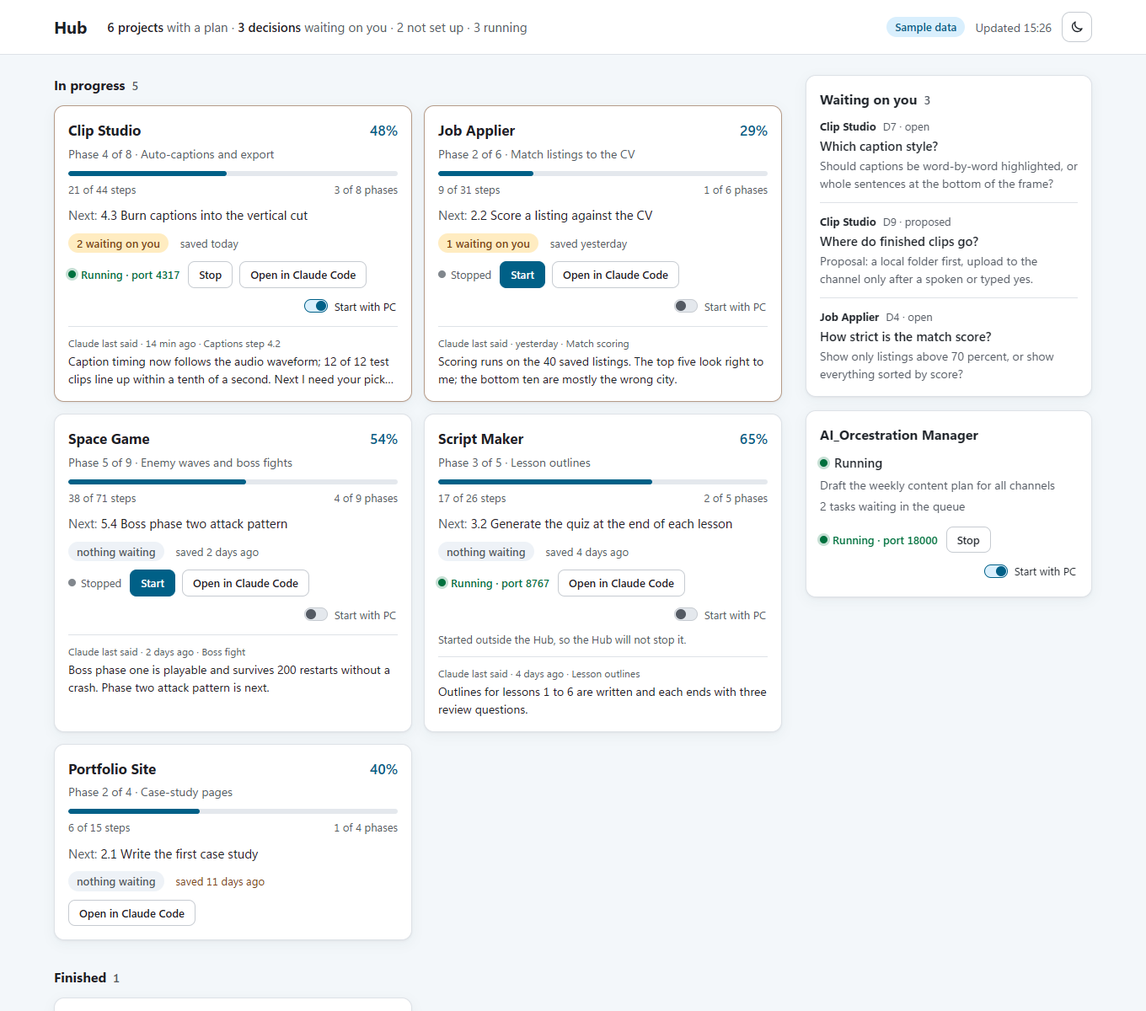
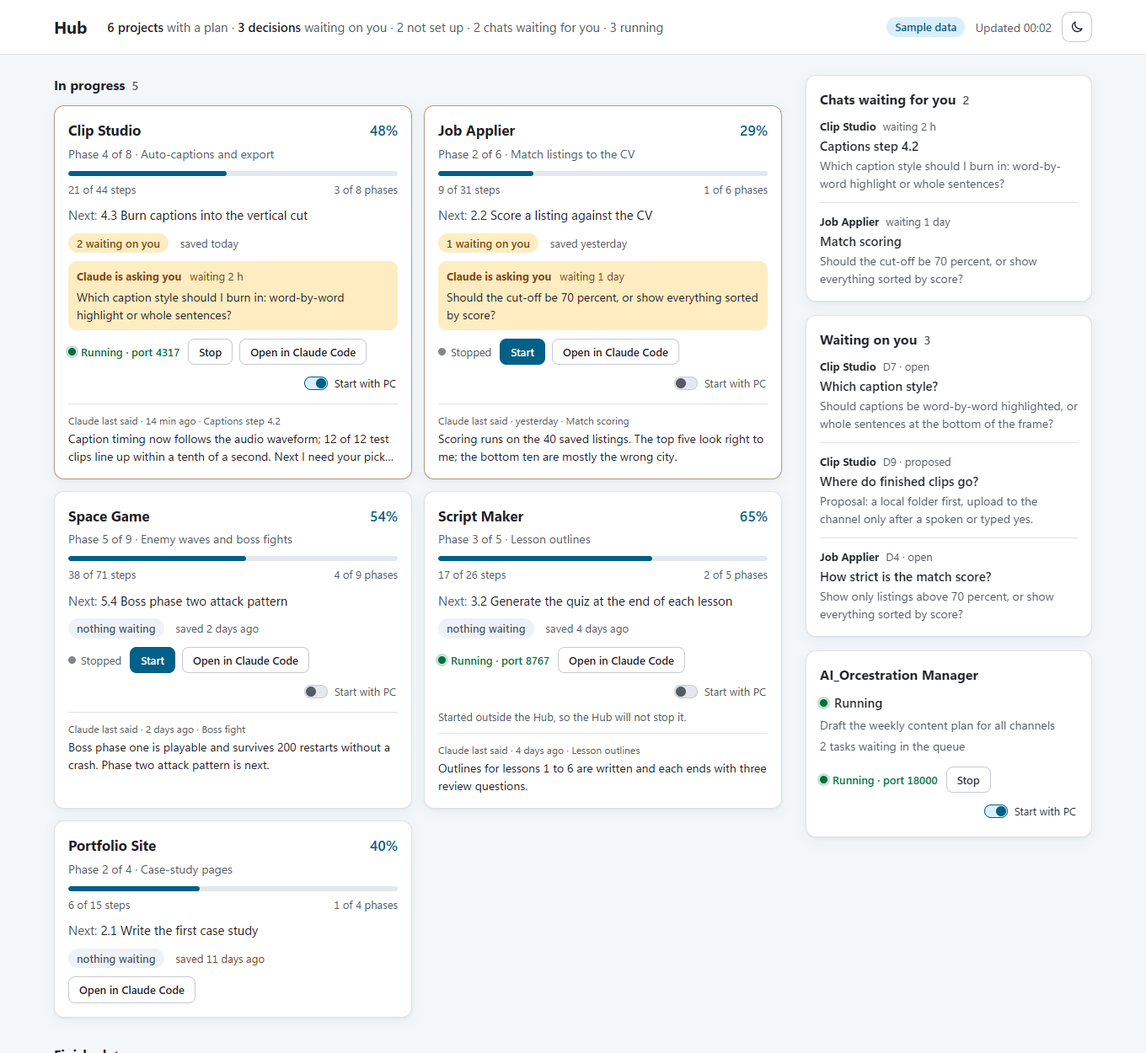
Step 6.3: chats waiting for you detected from the saved chats, shown on cards and in a list (Phase 6 done)

diff --git a/tools/dashboard/public/app.js b/tools/dashboard/public/app.js
@@ -35,6 +35,9 @@ let runtime = [];                   // one entry per startable project
 let lastData = null;                // last render input, so the question row survives the 30 s refresh
 let asking = null;                  // { kind, name, id, label, text } while a "...?" row is open
 let note = "";
+let needs = [];                     // chats that are waiting for Ivan (from /api/needs-you)
+const needsFor = (name) => needs.filter((n) => n.project === name);
+const waited = (iso) => { const m = Math.round((Date.now() - new Date(iso).getTime()) / 60000); return m < 60 ? `${Math.max(m, 1)} min` : m < 1440 ? `${Math.round(m / 60)} h` : (d => d === 1 ? "1 day" : `${d} days`)(Math.round(m / 1440)); };
 const rtFor = (name) => runtime.find((r) => r.name === name);
 
 function setNote(text, bad = false) { note = text; const n = $("note"); n.textContent = text; n.hidden = !text; n.className = "note" + (bad ? " bad" : ""); }
@@ -81,6 +84,10 @@ async function send(body, retry = true) {
   const r = await fetch("/api/action", { method: "POST", headers: { "Content-Type": "application/json", "X-Hub-Token": session.token }, body: JSON.stringify({ ...body, confirm: true }) });
   if (r.status === 403 && retry) { session = null; return send(body, false); } // the server was restarted: fetch the new token once
   return r.json().catch(() => ({ ok: false, error: "The Hub answered something unexpected." }));
+}
+
+async function loadNeeds() {
+  try { needs = (await (await fetch("/api/needs-you", { cache: "no-store" })).json()).items || []; } catch { /* keep the last list */ }
 }
 
 async function loadRuntime() {
@@ -141,6 +148,9 @@ function card(p, answer) {
     h("div", { class: "meta" },
       needs ? h("span", { class: "pill" }, `${p.decisionsWaiting} waiting on you`) : h("span", { class: "pill quiet" }, "nothing waiting"),
       h("span", { class: stale ? "stale" : "" }, saved(p.handoffDaysOld))),
+    needsFor(p.name).slice(0, 1).map((n) => h("div", { class: "asking" },
+      h("div", { class: "asking-top" }, h("span", { class: "pill" }, n.state === "permission" ? "Maybe waiting for permission" : "Claude is asking you"), h("span", {}, `waiting ${waited(n.since)}`)),
+      h("p", { class: "asking-q" }, n.snippet))),
     controls(p.name),
     answer ? h("details", { class: "said" },
       h("summary", {}, h("span", { class: "when" }, `Claude last said · ${ago(answer.at)}${answer.chat ? " · " + answer.chat : ""}`), h("span", { class: "short" }, answer.short)),
@@ -161,6 +171,7 @@ function render(data) {
     h("b", {}, `${ready.length} projects`), ` with a plan · `,
     h("b", {}, waiting === 0 ? "nothing" : `${waiting} decision${waiting > 1 ? "s" : ""}`), " waiting on you",
     unset.length ? ` · ${unset.length} not set up` : "",
+    needs.length ? ` · ${needs.length} chat${needs.length > 1 ? "s" : ""} waiting for you` : "",
     runtime.some((r) => r.status === "running") ? ` · ${runtime.filter((r) => r.status === "running").length} running` : "");
 
   $("active-count").textContent = active.length;
@@ -171,6 +182,13 @@ function render(data) {
   $("unset-section").hidden = unset.length === 0;
   $("unset-count").textContent = unset.length;
   $("unset").replaceChildren(...unset.map((p) => h("li", {}, p.name)));
+
+  $("needs-panel").hidden = needs.length === 0;
+  $("needs-count").textContent = needs.length || "";
+  $("needs").replaceChildren(...needs.map((n) => h("li", {},
+    h("div", { class: "w-top" }, h("b", {}, n.project), h("span", {}, `waiting ${waited(n.since)}${n.state === "permission" ? " · maybe permission" : ""}`)),
+    n.chat ? h("div", { class: "w-title" }, n.chat) : null,
+    h("div", { class: "w-q" }, n.snippet))));
 
   $("wait-count").textContent = waiting ? waiting : "";
   $("waitlist").replaceChildren(...(waiting ? decisions.map((d) => h("li", {},
@@ -191,7 +209,7 @@ function render(data) {
 
 async function load() {
   const get = async (path) => { const r = await fetch(path, { cache: "no-store" }); if (!r.ok) throw new Error(path); return r.json(); };
-  const [p, d, a, m] = await Promise.allSettled([get("/api/projects"), get("/api/decisions"), get("/api/answers"), get("/api/manager"), loadRuntime()]);
+  const [p, d, a, m] = await Promise.allSettled([get("/api/projects"), get("/api/decisions"), get("/api/answers"), get("/api/manager"), loadRuntime(), loadNeeds()]);
   if (p.status !== "fulfilled") { $("banner").hidden = false; return; }
   $("banner").hidden = true;
   $("demo-tag").hidden = !p.value.demo;

diff --git a/tools/dashboard/public/style.css b/tools/dashboard/public/style.css
@@ -187,3 +187,9 @@ a.run.on:hover { text-decoration: underline; }
 .note { position: fixed; left: 50%; bottom: 20px; transform: translateX(-50%); max-width: min(560px, calc(100vw - 32px)); z-index: 20;
   background: var(--ink); color: var(--bg); padding: 10px 16px; border-radius: 10px; font-size: 0.875rem; box-shadow: var(--shadow); }
 .note.bad { background: var(--warn-bg); color: var(--warn); border: 1px solid var(--warn); }
+
+/* chat waiting for Ivan (step 6.3) */
+.asking { display: grid; gap: 4px; background: var(--warn-bg); border-radius: 10px; padding: 8px 10px; font-size: 0.8125rem; }
+.asking-top { display: flex; flex-wrap: wrap; gap: 4px 10px; align-items: center; color: var(--warn); }
+.asking .pill { background: transparent; padding: 0; font-weight: 700; }
+.asking-q { color: var(--ink); font-size: 0.875rem; display: -webkit-box; -webkit-line-clamp: 3; -webkit-box-orient: vertical; overflow: hidden; }

diff --git a/tools/dashboard/public/index.html b/tools/dashboard/public/index.html
@@ -29,6 +29,10 @@
 
 <main class="layout">
   <aside class="side" aria-label="Waiting on you and the Manager">
+    <section class="panel" id="needs-panel" aria-labelledby="h-needs" hidden>
+      <h2 id="h-needs">Chats waiting for you <span class="count" id="needs-count"></span></h2>
+      <ul class="waitlist" id="needs"></ul>
+    </section>
     <section class="panel" aria-labelledby="h-wait">
       <h2 id="h-wait">Waiting on you <span class="count" id="wait-count"></span></h2>
       <ul class="waitlist" id="waitlist"></ul>

diff --git a/.claude/handoff.md b/.claude/handoff.md
@@ -1,28 +1,28 @@
-# Handoff: Hub   (updated 2026-11-08)
-Git: main @ a37e03a "Phase 3 closed: one glance is enough (3.8, D27); handoff for Phase 11" · pushed: yes (repo ZivacHub/Hub is PUBLIC, D21) · uncommitted: the 6.1/6.2 check, the latest-words fix, tests/latest_words_check.mjs and this handoff (committed and pushed right after)
+# Handoff: Hub   (updated 2026-11-09)
+Git: main @ bab1e1e "6.1/6.2 checked against the saved chats (6/6); fix: latest words chosen by last-message time; tests/latest_words_check.mjs" · pushed: yes (repo ZivacHub/Hub is PUBLIC, D21) · uncommitted: step 6.3 (attention.mjs, page, docs) and this handoff (committed and pushed right after)
 
 ## Where we are in the plan
-Phase 11 of 12 — Start and stop projects from the dashboard, in progress. Steps done 23/58. Phase 3 is CLOSED (D27). Next per plan: 11.5 Start with the PC (needs Ivan to run the install file and restart). With Ivan's OK ("Yes, do that") Phase 6 steps 6.1 and 6.2 were done meanwhile; 6.3 is the only Phase 6 step left. Plan v2: dashboard first, voice track optional at the bottom (D19).
+Phase 11 of 12 — Start and stop projects from the dashboard, in progress. Steps done 24/58. Phases 3 and 6 are CLOSED (D27; 6.3 done 2026-11-09). Next per plan: 11.5 Start with the PC (needs Ivan to run the install file and restart), then 11.6 (his own try-out). Plan v2: dashboard first, voice track optional at the bottom (D19).
 (Copied from docs/plan/BOARD.md.)
 
 ## What we're building
-A local dashboard of all BUSNUS projects: cards, one list of waiting decisions, Claude's latest words, the Manager card, light by default with a dark switch, plus Start / Stop / Open in Claude Code / "Start with PC" per project (always asks "Start X?" first). Public on GitHub for Ivan's CV. Jarvis voice is optional, in its own chat. Ivan's words: docs/PRODUCT.md.
+A local dashboard of all BUSNUS projects: cards, one list of waiting decisions, chats waiting for Ivan, Claude's latest words, the Manager card, light by default with a dark switch, plus Start / Stop / Open in Claude Code / "Start with PC" per project (always asks "Start X?" first). Public on GitHub for Ivan's CV. Jarvis voice is optional, in its own chat. Ivan's words: docs/PRODUCT.md.
 
 ## Last session
-- Phase 3 closed (3.5 after the real Manager Start/Stop test, 3.8 on Ivan's "Yes, enough", D27). Manager runs on port 18000 (8000 is ClipForge's openshorts container).
-- 6.1/6.2: `node tests/latest_words_check.mjs` (dashboard must be up) compares the page's "Claude last said" with an independent read of the whole saved chat files: 6 of 6 match. It first caught a real bug (Socials Automatisation showed an 8 Oct message instead of today's): the newest chat was chosen by file modified time; now by the time of the last message (lib/data.mjs answers()). "Compared with the app" = compared with the saved chat files, the app window itself cannot be read.
-- Left unfinished: 11.5 (his install + restart), 11.6 (his own try-out), 6.3, Phase 10 security pass. A terminal window "Claude Code - Hub" from an earlier test may still be open (Ivan closes it).
+- 6.3 "a chat needs you": tools/dashboard/lib/attention.mjs decides from the saved chat files (no hooks, no settings change): turn ended + the next-step box (wrap_up input.ask) asked something or the last paragraph ends with "?"; open AskUserQuestion; a tool call open over 3 minutes = "maybe waiting for permission". Self-test 15/15 on made-up chats; on real chats it flagged Job Application and Family_WiFi (real questions) and a new urgent question in the ClipForge chat. Page: amber box on the card, "Chats waiting for you" list, count in the top line, GET /api/needs-you (ready for the voice track). Proofs on the 6.3 board line.
+- Earlier today: 3.5 (Manager real Start/Stop on port 18000), 3.8 "Yes, enough" (D27), 6.1/6.2 (6/6 match; bug fixed: latest chat chosen by last-message time).
+- Left unfinished: 11.5, 11.6, Phase 10 security pass. Not yet seen live: this chat's own alert while it waits for Ivan, and it clearing when he answers (check on his next message: Hub card box should vanish).
 
 ## Next steps (strictly in order; step 1 is where the next session starts)
-1. Step 11.5: ask Ivan to double-click Install Hub Autostart.bat, switch on "Start with PC" for ONE harmless project on the dashboard (not ClipForge: it publishes on its own schedule while open), restart the PC, and say whether it came up; done when the project is Running after the restart with no one pressing Start (tick 11.5 with his word). Then 11.6: he presses Start himself on one project and says what to change.
+1. Step 11.5: ask Ivan to double-click Install Hub Autostart.bat, switch on "Start with PC" for ONE harmless project on the dashboard (not ClipForge: it publishes on its own schedule while open), restart the PC, and say whether it came up; done when the project is Running after the restart with no one pressing Start (tick 11.5 with his word). Then 11.6: he presses Start himself on one project and says what to change. NOTE: the ClipForge chat has an open question to Ivan about starting ClipForge with Windows (it shows on the dashboard); tell him it ties in with the "Start with PC" switch and its warning.
    Read first: docs/plan/phases/11-start-stop-projects.md, docs/reference/SECURITY_CHECKLIST.md
-2. Phase 6 step 6.3 "a chat needs you" (grade strong: no reliable signal known yet; look at how saved chats end, possibly hooks, which would change Claude settings and needs a choice card first), with his OK to run ahead of Phase 11 if 11.5 still waits.
-   Read first: docs/plan/phases/06-claudes-answers-and-alerts.md
-3. Phase 10: security pass of the page including the POST route (probe from a second website and from the LAN), then Phase 4 later.
+2. Phase 10: security pass of the page: the POST route and the GET routes (including the chat-text ones: /api/answers, /api/needs-you), probe from a second website and from the LAN, key-like text hidden; /security-review first (free default). Needs a phase gate (plain preview, search, decisions, Ivan's go).
+   Read first: docs/plan/phases/10-dashboard-always-on.md, docs/reference/SECURITY_CHECKLIST.md
+3. Later: Phase 4 (answer decisions from the page by click, with read-back and confirm); the voice track stays with the Jarvis chat.
 
 ## Waiting on the owner
-- 11.5/11.6: his install + restart + own try-out; closing the leftover "Claude Code - Hub" terminal window.
-- Small: the LICENSE copyright line "Ivan (ZivacHub)" is my guess (D22); whether the internal notes (decisions, memory, handoff) should stay public (D21).
+- 11.5/11.6: his install + restart + own try-out; closing the leftover "Claude Code - Hub" terminal window (if still open).
+- Small: the LICENSE copyright line "Ivan (ZivacHub)" is my guess (D22); whether the internal notes (decisions, memory, handoff) should stay public (D21); whether chats older than 7 days should ever count as "waiting" (now they do not).
 - D15 nicknames (tools/hub_status/aliases.json); step 2.6 demo and the offline backup model (voice track, Jarvis chat).
 - Cleanup he can OK: C:\Users\Ivan\JarvisTrial\installed (893 MB) and the partial Ollama zip in JarvisTrial\ollama-new (564 MB).
 
@@ -32,9 +32,9 @@ A local dashboard of all BUSNUS projects: cards, one list of waiting decisions, 
 - Real mode needs Ivan's shared reader (~/.claude/hooks/lib/busnus.mjs); `--demo` is the only mode that runs elsewhere, and there the buttons answer "Sample data mode".
 - Strict Content-Security-Policy: no inline styles or scripts. The POST route needs the per-run token (GET /api/session), same Origin, JSON, confirm:true. After a dashboard restart the first page load takes several seconds: wait before clicking in tests.
 - Ports: never 8765 (another chat's dev server) and never 8000 (ClipForge's openshorts container). The Manager runs on 18000 on 127.0.0.1. Stop only ends programs the Hub started (PID in data/hub_state.json, git-ignored; survives a dashboard restart).
-- Saved chats (~/.claude/projects/<path with every non-letter/digit as a dash>/*.jsonl) are tens of MB: a file's modified time can change without a new message (renames), so compare message times, skip isSidechain messages, read tails.
+- Saved chats (~/.claude/projects/<path with every non-letter/digit as a dash>/*.jsonl) are tens of MB: a file's modified time changes without new messages (renames), so compare message times, skip isSidechain messages, read tails. Waiting-for-you comes from wrap_up's input.ask, AskUserQuestion and a final "?" paragraph.
 - The permission system blocked killing a process tree (taskkill /T): do not work around it. Windows start-up is changed only by Ivan running Install Hub Autostart.bat. In git bash, node -e with apostrophes breaks: write scripts to the scratchpad; write files with the Write tool.
 - Voice track (Jarvis chat): start with tools/jarvis_trial/start_jarvis_trial.ps1, never Jarvis.exe alone; C:\Users\Ivan\.config\jarvis\config.json holds the Gemini key, never print or commit it.
 
 ## Running / not committed
-- Services running: the real dashboard on http://127.0.0.1:4780 (started by this chat, hidden window; stop node on that port); the Manager and Learning Script Maker are stopped; the Jarvis chat's services may still run  ·  Not committed: the 6.1/6.2 work and this handoff until the push right after this file
+- Services running: the real dashboard on http://127.0.0.1:4780 (started by this chat, hidden window; stop node on that port); the Manager and Learning Script Maker are stopped; the Jarvis chat's services may still run  ·  Not committed: step 6.3 and this handoff until the push right after this file

diff --git a/README.md b/README.md
@@ -21,6 +21,7 @@ I run many projects side by side, each planned and built with Claude Code. Hub r
 - **Project cards:** progress bar, current phase, next step, decisions waiting, and how old the last save-point is. Projects with no plan yet sit in a small "not set up" group.
 - **Waiting on you:** every open question across all projects in one list, with the full question text.
 - **Claude's latest words:** the last thing Claude said in each project's chat, read from the saved chat files on the same PC. Click a card to expand it.
+- **Chats waiting for you:** when a project's Claude chat has asked you something and is waiting, its card gets an amber box with the question and how long it has waited, and it is listed at the top of the side column. It reads the saved chat files only, so it needs no hooks and no change to Claude's settings, and it clears by itself when you answer.
 - **Manager card:** status of a separate orchestration service (running or not, queue, current goal), with Start and Stop.
 - **Start / Stop / Open in Claude Code:** each project on my start list gets Running or Stopped, Start and Stop buttons, and a "Start with PC" switch; every project gets an "Open in Claude Code" button. Each one asks "Start X?" first.
 - Light by default, dark by switch (remembered), refreshes itself every 30 seconds.
@@ -45,7 +46,7 @@ node tools/dashboard/server.mjs --selftest
 
 - **Plain Node, no framework, no build step.** A small HTTP server (`tools/dashboard/server.mjs`) serves JSON feeds and a static page (`tools/dashboard/public/`). The page writes all text with `textContent`, never HTML, because the text comes from project files.
 - **Reads with GET, acts through one guarded route.** The only POST route (`/api/action`) can start or stop programs listed in `config/projects.json`, open Claude Code in a real project folder, or flip a start-up switch. The page can never send a command line; programs run with no shell and the arguments from that file. Start and Stop only end programs the Hub itself started.
-- **This PC only, and guarded against other websites.** The server binds to `127.0.0.1`, rejects any other `Host` header (DNS-rebinding guard), sends a strict Content-Security-Policy, and the action route also needs a per-run secret token, a same-origin request, a JSON body and an explicit confirm flag. Every action is logged. `--selftest` checks 16 cases (including refused cross-site, token-less, unlisted and oversized requests) and `node tools/dashboard/lib/control.mjs --selftest` starts and stops a fake project through the engine.
+- **This PC only, and guarded against other websites.** The server binds to `127.0.0.1`, rejects any other `Host` header (DNS-rebinding guard), sends a strict Content-Security-Policy, and the action route also needs a per-run secret token, a same-origin request, a JSON body and an explicit confirm flag. Every action is logged. `--selftest` checks 16 cases (including refused cross-site, token-less, unlisted and oversized requests) and `node tools/dashboard/lib/control.mjs --selftest` starts and stops a fake project through the engine, `node tools/dashboard/lib/attention.mjs --selftest` checks the waiting-chat detector on made-up chats, and `node tests/latest_words_check.mjs` compares the page's "Claude last said" with an independent read of the saved chats.
 - **Secrets never reach the page.** A filter replaces key-like text (API keys, tokens, `password=`, long random strings) in Claude's words and decisions with `[hidden]`.
 - **Numbers come from one source.** Progress and decision counts use the same reader as my `busnus-status` command, so the dashboard and the terminal agree.
 - **Design:** an Operate-style surface (calm, scannable, one accent colour, tabular numbers, visible focus, reduced-motion respected), checked with Playwright screenshots at desktop and phone width and a design linter.
@@ -58,7 +59,7 @@ A Jarvis-style assistant ("Hey Jarvis, how is the game going?", "any decisions w
 
 The dashboard is the main product now; the voice layer is optional and developed separately. Progress, in order, is tracked in `docs/plan/BOARD.md` and every decision with its date and the reason in `docs/DECISIONS.md`.
 
-Done: local data feed, project cards, waiting-decisions list, light/dark switch, Claude's latest words, secret filter, start/stop engine with its safety checks, Start / Stop / Open in Claude Code buttons, start-with-PC install files. Next: a live test with the real projects, a security pass, and (later) answering decisions from the page with a read-back and confirm step.
+Done: local data feed, project cards, "chat is waiting for you" alerts, waiting-decisions list, light/dark switch, Claude's latest words, secret filter, start/stop engine with its safety checks, Start / Stop / Open in Claude Code buttons, start-with-PC install files. Next: a live test with the real projects, a security pass, and (later) answering decisions from the page with a read-back and confirm step.
 
 ## Repository map
 

diff --git a/docs/plan/BOARD.md b/docs/plan/BOARD.md
@@ -30,11 +30,11 @@ and has a detail file `docs/plan/phases/<NN>-<name>.md` (NN = the phase number, 
   - [x] 11.4 "Open in Claude Code" button — pressed for real on the Hub card 2026-11-08: question shown, Yes, log "open-claude Hub ok", a terminal window titled "Claude Code - Hub - claude" opened (closing it was left to Ivan: Claude was not allowed to kill the window's processes)
   - [~] 11.5 Start with the PC: one Hub entry (Ivan runs the install file) and a switch per project — Install / Remove Hub Autostart.bat tested into a TEMP folder (shortcut target and vbs correct, removal works), hidden boot launcher brought the server up with no window, real Startup folder untouched; WAITS for Ivan to run Install Hub Autostart.bat and restart
   - [ ] 11.6 Milestone: Ivan starts ClipForge from the page and ticks one project for start-up
-- [~] Phase 6 — Claude's latest answers and "needs you" alerts (stage 2: 6.1, 6.2, 6.4 first, 6.3 last)
+- [x] Phase 6 — Claude's latest answers and "needs you" alerts (stage 2: 6.1, 6.2, 6.4 first, 6.3 last)
   - [x] 6.1 Find the latest Claude answer per project (read-only) — `node tests/latest_words_check.mjs` compares the page's answers with an independent read of the whole saved chat files (skipping sub-agent messages, newest by the time of the LAST MESSAGE): 6 of 6 projects match (2026-11-08). The check first showed 1 of 6 wrong (Socials Automatisation showed an 8 October message, the true latest was from 8 November) because the newest chat was picked by file time, which a rename can change; fixed in tools/dashboard/lib/data.mjs. Compared with the saved chat files, not the Claude app window
   - [x] 6.2 Show them on the dashboard — each card shows "Claude last said", its time and chat title, click for the longer text (screenshots in docs/screenshots/, sample data); the text on the real page equals what 6.1 verified (2026-11-08)
   - [x] 6.4 Never show or speak anything that looks like a secret — redact() in tools/dashboard/lib/data.mjs: fake sk-, AIza, token= and long random strings all became [hidden] (tested 2026-11-07); covers what the page shows, the spoken side stays with the voice track
-  - [ ] 6.3 Detect "a chat needs you" and say so
+  - [x] 6.3 Detect "a chat needs you" and say so — no hooks and no change to Claude's settings: tools/dashboard/lib/attention.mjs decides from the saved chat files (turn ended + the next-step box asked something or the last paragraph ends with "?"; an open question tool; a tool call open for over 3 minutes = "maybe waiting for permission"). `node tools/dashboard/lib/attention.mjs --selftest` 15/15 on made-up chats, including "answering clears the alert". On the real chats (2026-11-08): Job Application and Family_WiFi flagged with their real questions, a pending question in the ClipForge chat flagged as urgent within a minute, the four quiet chats not flagged; 236 ms. The dashboard marks the card (amber "Claude is asking you", how long, the question), lists them in "Chats waiting for you" and counts them in the top line; /api/needs-you is ready for the voice track ("Game is waiting for you"), which stays in the Jarvis chat
 - [ ] Phase 10 — Dashboard always on and safe (stage 3, no voice needed)
   - [-] 10.1 Starts with Windows and opens with one click or one short command — merged into 11.5 on 2026-11-07 (D24)
   - [ ] 10.2 Security pass on the page (this PC only, nothing editable, no keys shown)

diff --git a/.claude/memory.md b/.claude/memory.md
@@ -226,3 +226,9 @@ Append newest entries at the bottom. Format: `YYYY-MM-DD: what changed / why / p
 - Ivan said "Yes, do that" to running 6.1/6.2 ahead of Phase 11 (11.5 waits on his install + restart).
 - Independent check (tests/latest_words_check.mjs, whole files, no sub-agent messages): first version of the check (newest file by modified time) matched 6/6, but a stricter one (newest by last-message time across all chats) showed Socials Automatisation wrong: the page had an 8 Oct message, the truth was 8 Nov 14:20. Cause: file modified time moves on renames and similar bookkeeping. Fix in lib/data.mjs answers(): look at every chat file newest-modified first, take the best last-message time, stop once a file is older than that (a file is never modified before its last message); sub-agent (isSidechain) messages skipped; bigger tail (12 MB) when the first 1.5 MB holds no text. Result: 6/6 match.
 - Limit: "compared with the app" means compared with the saved chat files the app writes; the app window itself cannot be read.
+
+## 2026-11-09 - Step 6.3 done: "a chat needs you" (Phase 6 closed)
+- Ivan: "Yes, start 6.3". Looked at the structure of the real chats (types and timing only): idle chats end with an assistant text row; the app's next-step box is the tool call wrap_up with the question in input.ask (blocked:true = urgent); questions use AskUserQuestion; a working chat ends mid-tool. So no hooks needed.
+- Built tools/dashboard/lib/attention.mjs (classify + chatsNeedingYou, window 7 days, 15/15 self-test on made-up chats), data.mjs needsYou(), GET /api/needs-you, page: amber box on the card, "Chats waiting for you" list, count in the top line, sample data for screenshots. Real run: Job Application and Family_WiFi flagged (real questions), the ClipForge chat flagged urgent when it opened a question ("should ClipForge start by itself when Windows starts") - relevant to Phase 11's Start-with-PC and ClipForge's autostart warning.
+- Limits: the permission prompt is only a guess ("tool call open over 3 minutes"); a hook would be exact (needs a settings change and Ivan's OK). Chats older than 7 days are not flagged. A question that is not a question mark (e.g. "Tell me which one.") is not detected unless it is in the next-step box.
+- Still to confirm live: this chat's own alert while it waits on Ivan, and that it clears when he answers.

diff --git a/docs/plan/phases/06-claudes-answers-and-alerts.md b/docs/plan/phases/06-claudes-answers-and-alerts.md
@@ -11,7 +11,7 @@ The dashboard and Jarvis show what Claude last said in each project's chat ("Fin
 ## Steps
 **6.1 Find the latest Claude answer per project (read-only)** — Grade: standard. Use: the saved chat files under `~/.claude/projects/` (one folder per project; a folder name is the project path with dashes), read only. Done when: for each project with chats, the Hub gives the last Claude message text and time. Test: compare with what the app shows for two projects. Decisions needed: none.
 **6.2 Show them on the dashboard** — Grade: standard. Use: the dashboard design from 3.2. Done when: each card shows a short "Claude's last words" line and time, with a button for the longer text. Test: screenshot. Decisions needed: none.
-**6.3 Detect "a chat needs you" and say so** — Grade: strong (we don't yet know a reliable signal). Use: look at how chat files end (a question or permission wait), possibly Claude Code hooks. Done when: when a chat has been waiting for your answer, Jarvis says "Game is waiting for you" once, and the dashboard marks it. Test: leave a test chat on a question and see the alert; answer it and see it clear. Decisions needed: a choice card if hooks (a change to Claude settings) turn out to be needed.
+**6.3 Detect "a chat needs you" and say so** — Grade: strong (we don't yet know a reliable signal). Use: look at how chat files end (a question or permission wait), possibly Claude Code hooks. Done when: when a chat has been waiting for your answer, Jarvis says "Game is waiting for you" once, and the dashboard marks it. Test: leave a test chat on a question and see the alert; answer it and see it clear. Decisions needed: none (hooks turned out not to be needed; the saved chat files are enough). Optional later: a Claude hook would give an exact permission-prompt signal instead of the 3-minute "maybe".
 **6.4 Never speak anything that looks like a secret** — Grade: standard. Use: a filter for key-like text before anything is spoken or shown large. Done when: text containing key-looking strings (e.g. "sk-...", long random tokens) is replaced by "[hidden]". Test: feed a sample with fake keys and see them hidden. Decisions needed: none.
 
 ## Risks and open points (only for this phase)

diff --git a/CLAUDE.md b/CLAUDE.md
@@ -41,7 +41,7 @@ No new skills were installed (search found nothing worth adding; paid voice skil
 - UI work: Design stack above · DB: none · Docs/versions: context7
 
 ## Current state
-- Plan v2, re-ordered 2026-11-07 (D19): dashboard first, voice optional (Jarvis chat). Dashboard runs: `node tools/dashboard/server.mjs` (real data, http://127.0.0.1:4780) or `--demo` (sample data). Steps 3.1, 3.3, 3.6, 3.7, 6.4, 11.1-11.3 done; 3.2 waits for Ivan's look approval; Phase 11 (start/stop projects, open in Claude Code, start with PC; D23-D25) waits on 11.4-11.6 (real tests with Ivan). Standing rule (Ivan 2026-11-07): every update is committed and pushed to GitHub; the repo is PUBLIC, so list the files and scan for keys first. This chat owns tools/dashboard/; the Jarvis chat owns tools/jarvis_trial/.
+- Plan v2, re-ordered 2026-11-07 (D19): dashboard first, voice optional (Jarvis chat). Dashboard runs: `node tools/dashboard/server.mjs` (real data, http://127.0.0.1:4780) or `--demo` (sample data). Phase 3 and Phase 6 done (3.8 and the look approved by Ivan, D26/D27; 6.3 chat-needs-you alerts from the saved chat files); Phase 11 steps 11.1-11.4 done; Phase 11 (start/stop projects, open in Claude Code, start with PC; D23-D25) waits on 11.4-11.6 (real tests with Ivan). Standing rule (Ivan 2026-11-07): every update is committed and pushed to GitHub; the repo is PUBLIC, so list the files and scan for keys first. This chat owns tools/dashboard/; the Jarvis chat owns tools/jarvis_trial/.
 
 ## How we work here (BUSNUS workflow v3, details in ~/.claude/CLAUDE.md)
 - docs/PRODUCT.md = the goal in the owner's words (compass). docs/plan/BOARD.md = progress, in order. docs/DECISIONS.md = what the owner decided.
